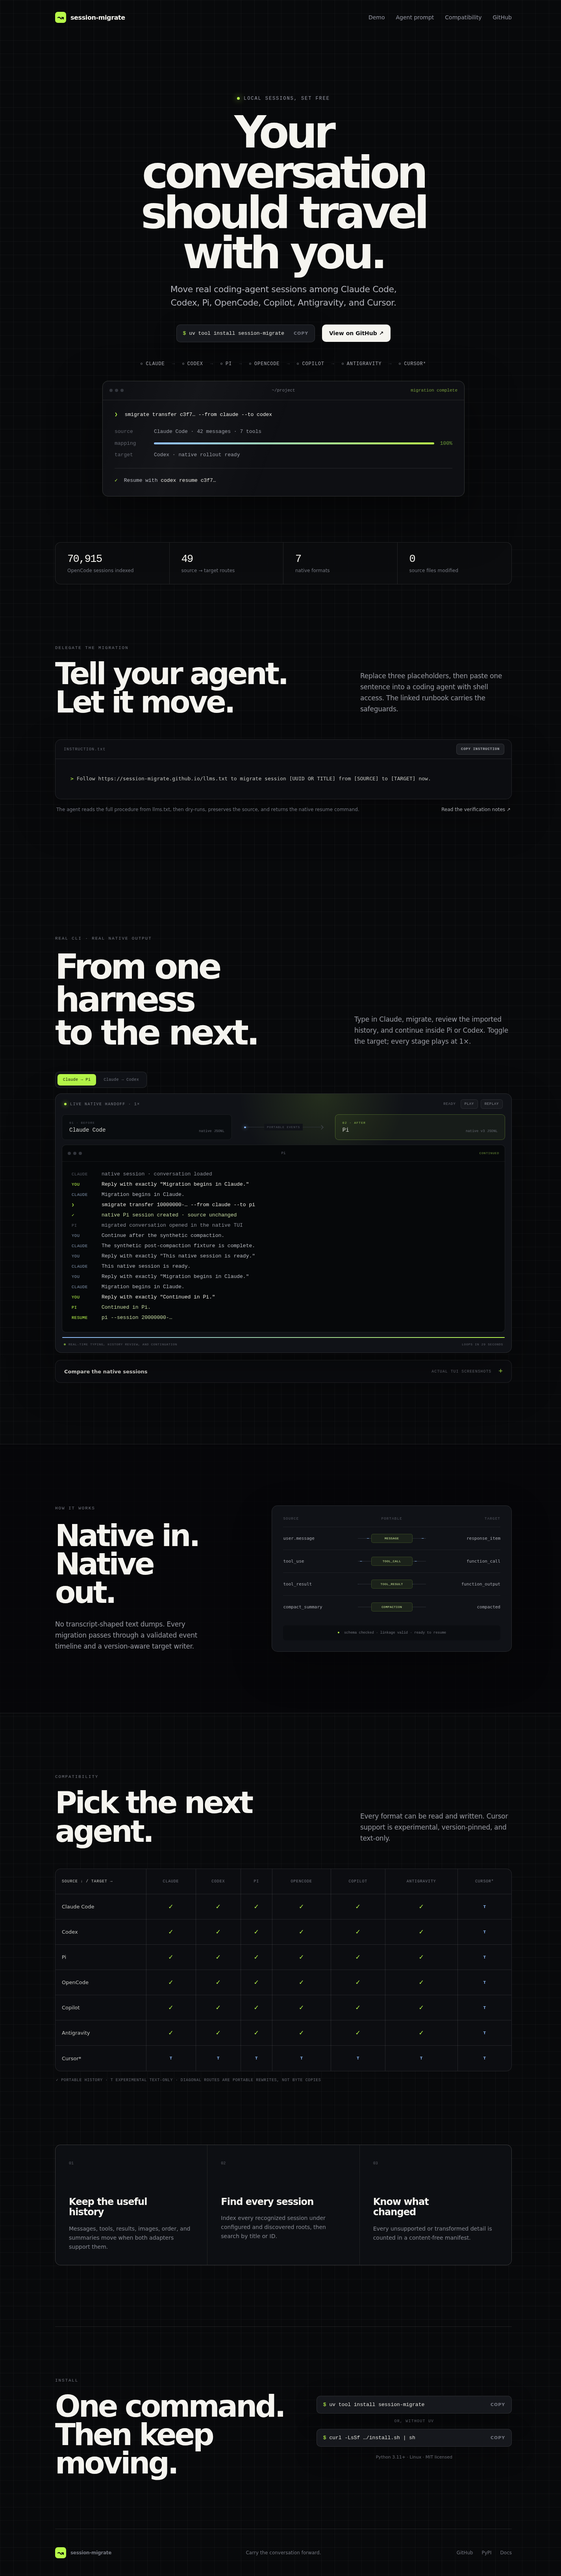
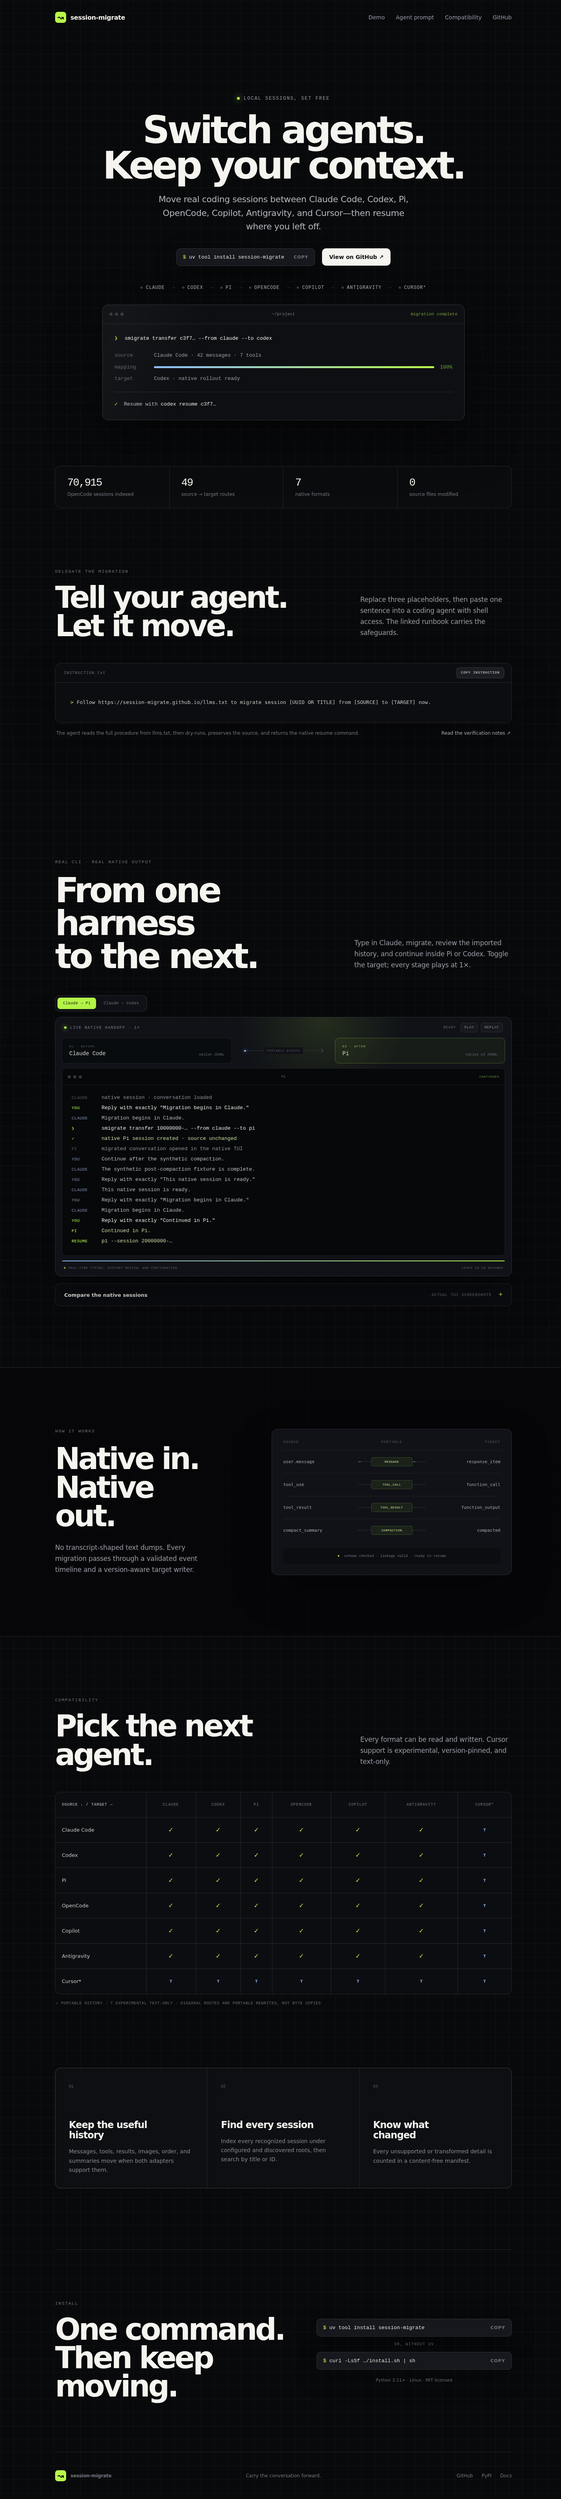
docs: sharpen the landing-page promise

diff --git a/website/app/globals.css b/website/app/globals.css
@@ -33,7 +33,7 @@ a { color: inherit; text-decoration: none; }
 .hero { padding: 150px 0 116px; text-align: center; }
 .eyebrow { display: inline-flex; gap: 10px; align-items: center; color: var(--muted); font-family: var(--font-geist-mono), monospace; font-size: 12px; text-transform: uppercase; letter-spacing: .16em; }
 .eyebrow span { width: 7px; height: 7px; background: var(--lime); border-radius: 50%; box-shadow: 0 0 16px var(--lime); }
-h1 { margin: 28px auto 24px; max-width: 930px; font-size: clamp(58px, 8.1vw, 112px); line-height: .91; letter-spacing: -.074em; font-weight: 610; }
+h1 { margin: 28px auto 24px; max-width: 1100px; font-size: clamp(58px, 7.1vw, 96px); line-height: .94; letter-spacing: -.064em; font-weight: 610; }
 .hero-copy { width: min(650px, 100%); margin: 0 auto; color: #b4b5bd; font-size: clamp(18px, 2vw, 22px); line-height: 1.55; letter-spacing: -.02em; }
 .hero-actions { display: flex; justify-content: center; align-items: center; gap: 18px; margin: 38px 0 48px; }
 .copy-command { display: flex; align-items: center; justify-content: space-between; gap: 24px; min-width: 320px; padding: 14px 16px; color: #e4e4df; background: #16181d; border: 1px solid var(--line); border-radius: 10px; box-shadow: 0 18px 60px rgba(0,0,0,.32); cursor: pointer; }
@@ -232,7 +232,7 @@ h1 { margin: 28px auto 24px; max-width: 930px; font-size: clamp(58px, 8.1vw, 112
   .nav { height: 70px; }
   .nav-links a:not(:last-child) { display: none; }
   .hero { padding-top: 110px; }
-  h1 { font-size: clamp(50px, 15vw, 72px); }
+  h1 { font-size: clamp(48px, 13.5vw, 60px); }
   .hero-actions { flex-direction: column; }
   .hero-actions .copy-command { width: 100%; min-width: 0; }
   .copy-command { min-width: 0; overflow: hidden; }

diff --git a/website/app/page.tsx b/website/app/page.tsx
@@ -32,10 +32,10 @@ export default function Home() {
 
       <section className="hero shell" id="top">
         <div className="eyebrow"><span /> Local sessions, set free</div>
-        <h1>Your conversation<br />should travel with you.</h1>
+        <h1>Switch agents.<br />Keep your context.</h1>
         <p className="hero-copy">
-          Move real coding-agent sessions among Claude Code, Codex, Pi,
-          OpenCode, Copilot, Antigravity, and Cursor.
+          Move real coding sessions between Claude Code, Codex, Pi, OpenCode,
+          Copilot, Antigravity, and Cursor—then resume where you left off.
         </p>
         <div className="hero-actions">
           <CopyCommand command="uv tool install session-migrate" />
